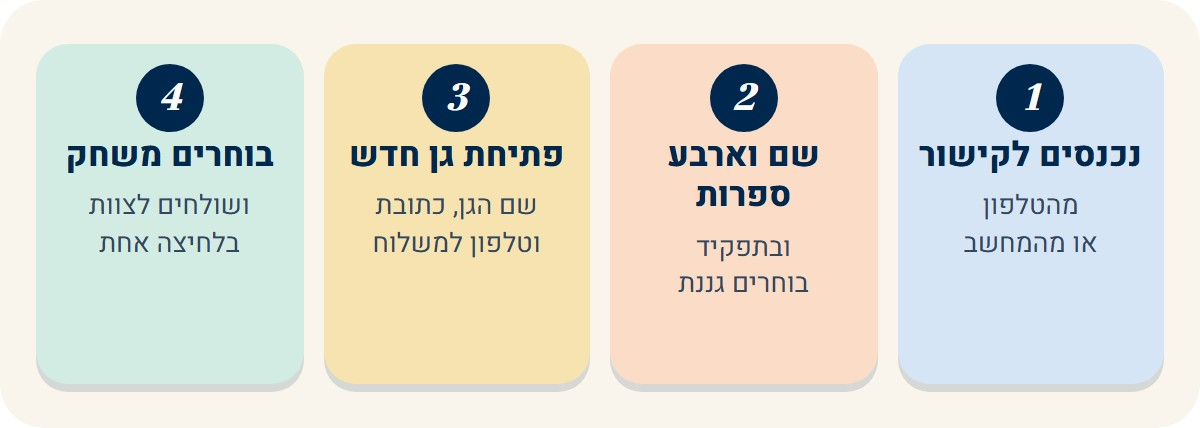
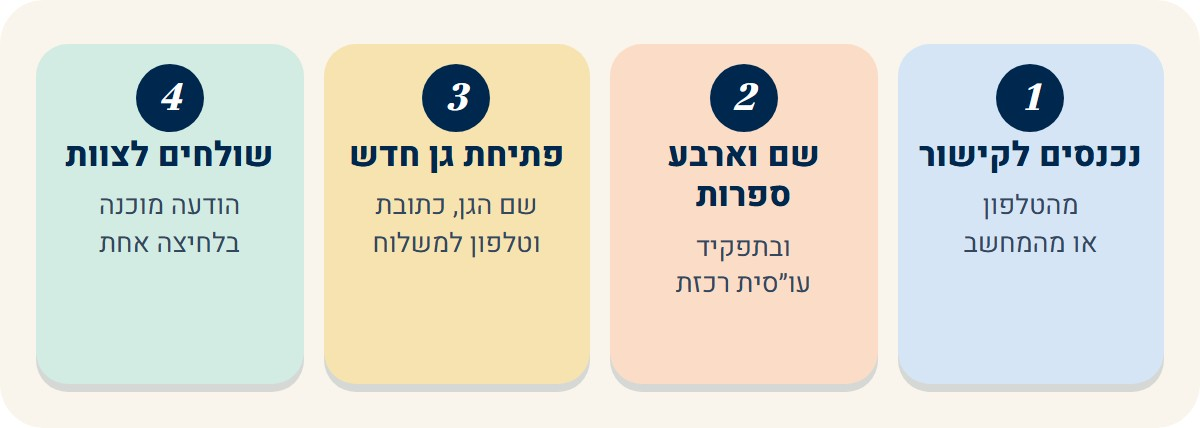
תמונות המייל: הרכזות פותחות את הגנים, המדריכות עוזרות לבחור

Changed region(s): [[0.0308, 0.3341, 0.2467, 0.3949], [0.0617, 0.4556, 0.2158, 0.5164], [0.555, 0.6379, 0.6783, 0.6986]]

diff --git a/email/body_all.html b/email/body_all.html
@@ -2,21 +2,21 @@
 <table dir="rtl" cellpadding="0" cellspacing="0" border="0" width="600" style="width:600px;max-width:100%;border-collapse:separate;margin:0 auto">
 <tbody>
 <tr><td style="text-align:center;padding:0 0 16px 0"><a href="https://miriam-tzohar.github.io/chanukiya/"><img src="https://miriam-tzohar.github.io/chanukiya/email/hero_s.gif" width="600" height="300" alt="החנוכייה של הגן, כל אחת מכן בוחרת משחק חדש לגן עד 70 ש״ח" style="display:inline-block;border:0;max-width:100%;height:auto"></a></td></tr>
-<tr><td style="font-family:Arial,sans-serif;background-color:#F9F5EC;border-radius:16px;padding:20px 30px;text-align:right;font-size:15px;line-height:1.75;color:#22313F">שלום לכולן,<br><br>השנה בחנוכה אנחנו רוצות להגיד לכן תודה,<br>בדרך שתישאר בגן הרבה אחרי החג.<br><br>כל אחת מכן, גננות, סייעות, מטפלות ומדריכות,<br>בוחרת משחק אחד חדש לגן שלה, עד 70 ש״ח.<br>צהר הלב מזמינה, וכל משחק נשלח ישירות לגן, לכתובת שהגננת כותבת.<br><br>במייל הזה כל ההוראות, צעד אחר צעד.<br><b style="color:#00274D">קודם הגננות פותחות את הגן, ואחר כך כל הצוות בוחר.</b></td></tr>
-<tr><td style="text-align:center;padding:22px 0 4px 0"><img src="https://miriam-tzohar.github.io/chanukiya/email/p_sun2.gif" width="340" height="134" alt="השמש של הגן, לגננות, פותחות ראשונות" style="display:inline-block;border:0;max-width:100%;height:auto"></td></tr>
-<tr><td style="text-align:center;padding:16px 0 0 0"><a href="https://miriam-tzohar.github.io/chanukiya/"><img src="https://miriam-tzohar.github.io/chanukiya/email/steps_g.jpg" width="600" height="214" alt="נכנסים לקישור, כותבים שם וארבע ספרות ותפקיד גננת, פותחים גן חדש עם כתובת, בוחרים משחק ושולחים לצוות" style="display:inline-block;border:0;max-width:100%;height:auto"></a></td></tr>
-<tr><td style="font-family:Arial,sans-serif;background-color:#F9F5EC;border-radius:16px;padding:20px 30px;text-align:right;font-size:15px;line-height:1.75;color:#22313F"><b style="color:#00274D">גננות, ככה פותחים את הגן</b><br>1. נכנסים לקישור <a href="https://miriam-tzohar.github.io/chanukiya/" style="color:#205998;font-weight:bold">miriam-tzohar.github.io/chanukiya</a><br>2. כותבים שם פרטי, שם משפחה וארבע הספרות האחרונות של תעודת הזהות.<br>3. בתפקיד בוחרים גננת, ואז בוחרים את העיר.<br>4. בשורה "הגן שלך" בוחרים "פתיחת גן חדש (אני הגננת)".<br>5. ממלאים את שם הגן, הכתובת המדויקת למשלוח, טלפון לתיאום,<br>וכמה אנשי צוות יש בגן, כולל המדריכה.<br>6. לוחצים "פתיחת הגן ובחירת משחק", ובוחרים את המשחק שלך.<br>7. בסוף מופיעה הודעה מוכנה לצוות, ושולחים אותה בוואטסאפ או במייל בלחיצה.<br>8. שומרים את קישור הניהול שמופיע בסוף. הוא רק שלך.<br>בו רואים מי כבר בחרה, אפשר לבחור בשם עובדת בלי אינטרנט, ובסוף סוגרים את הסל.<br><br><b style="color:#BE4E08">חשוב לפתוח את הגן כבר היום, כדי שהצוות יוכל לבחור.</b><br>המשחקים יגיעו לכתובת שתכתבי, אז כדאי לכתוב אותה מדויק.</td></tr>
+<tr><td style="font-family:Arial,sans-serif;background-color:#F9F5EC;border-radius:16px;padding:20px 30px;text-align:right;font-size:15px;line-height:1.75;color:#22313F">שלום לכולן,<br><br>השנה בחנוכה אנחנו רוצות להגיד לכן תודה,<br>בדרך שתישאר בגן הרבה אחרי החג.<br><br>כל אחת מכן, גננות, סייעות, מטפלות ועו״סיות,<br>בוחרת משחק אחד חדש לגן שלה, עד 70 ש״ח.<br>המדריכות לא בוחרות משחק בעצמן. הן עוזרות למודרכות שלהן לבחור.<br>צהר הלב מזמינה, וכל משחק נשלח ישירות לגן, לכתובת שהרכזת כותבת.<br><br>במייל הזה כל ההוראות, צעד אחר צעד.<br><b style="color:#00274D">קודם העו״סיות רכזות הגנים פותחות את הגנים, ואחר כך כל הצוות בוחר.</b></td></tr>
+<tr><td style="text-align:center;padding:22px 0 4px 0"><img src="https://miriam-tzohar.github.io/chanukiya/email/p_sun2.gif" width="340" height="134" alt="השמש של הגן, הרכזות פותחות ראשונות" style="display:inline-block;border:0;max-width:100%;height:auto"></td></tr>
+<tr><td style="text-align:center;padding:16px 0 0 0"><a href="https://miriam-tzohar.github.io/chanukiya/"><img src="https://miriam-tzohar.github.io/chanukiya/email/steps_g.jpg" width="600" height="214" alt="נכנסים לקישור, כותבים שם וארבע ספרות ותפקיד עו״סית רכזת, פותחים גן חדש עם כתובת, ושולחים לצוות הודעה מוכנה" style="display:inline-block;border:0;max-width:100%;height:auto"></a></td></tr>
+<tr><td style="font-family:Arial,sans-serif;background-color:#F9F5EC;border-radius:16px;padding:20px 30px;text-align:right;font-size:15px;line-height:1.75;color:#22313F"><b style="color:#00274D">עו״סיות רכזות הגנים, ככה פותחים את הגן</b><br>1. נכנסים לקישור <a href="https://miriam-tzohar.github.io/chanukiya/" style="color:#205998;font-weight:bold">miriam-tzohar.github.io/chanukiya</a><br>2. כותבים שם פרטי, שם משפחה וארבע הספרות האחרונות של תעודת הזהות.<br>3. בתפקיד בוחרים "עו״סית רכזת", ואז בוחרים את העיר.<br>4. בשורה "הגן שלך" בוחרים "פתיחת גן חדש (אני הרכזת)".<br>5. ממלאים את שם הגן, הכתובת המדויקת למשלוח, טלפון לתיאום,<br>וכמה יבחרו משחק לגן (הגננת, הסייעות והמטפלות, בלי המדריכה).<br>6. לוחצים "פתיחת הגן". מופיעה הודעה מוכנה לצוות של הגן, ושולחים אותה בוואטסאפ או במייל בלחיצה.<br>7. שומרים את קישור הניהול. הוא רק שלך.<br>בו רואים מי כבר בחרה, אפשר לבחור בשם עובדת בלי אינטרנט, ובסוף סוגרים את הסל.<br>8. רכזת של כמה גנים? לוחצים "פתיחת גן נוסף" ופותחים כל גן בנפרד.<br>9. גם את בוחרת משחק? לוחצים "לבחירת המשחק שלי לגן הזה".<br><br><b style="color:#BE4E08">חשוב לפתוח את הגנים כבר היום, כדי שהצוות יוכל לבחור.</b><br>המשחקים יגיעו לכתובת שתכתבי, אז כדאי לכתוב אותה מדויק.</td></tr>
 <tr><td style="text-align:center;padding:22px 0 4px 0"><img src="https://miriam-tzohar.github.io/chanukiya/email/p_team.gif" width="340" height="134" alt="לכל הצוות, ככה בוחרות משחק" style="display:inline-block;border:0;max-width:100%;height:auto"></td></tr>
 <tr><td style="text-align:center;padding:16px 0 0 0"><a href="https://miriam-tzohar.github.io/chanukiya/"><img src="https://miriam-tzohar.github.io/chanukiya/email/steps_s.jpg" width="600" height="214" alt="נכנסים לקישור, כותבים שם וארבע ספרות, בוחרים את העיר והגן, ובוחרים משחק" style="display:inline-block;border:0;max-width:100%;height:auto"></a></td></tr>
-<tr><td style="font-family:Arial,sans-serif;background-color:#F9F5EC;border-radius:16px;padding:20px 30px;text-align:right;font-size:15px;line-height:1.75;color:#22313F"><b style="color:#00274D">כל הצוות, ככה בוחרים משחק</b><br>1. נכנסים לאותו קישור <a href="https://miriam-tzohar.github.io/chanukiya/" style="color:#205998;font-weight:bold">miriam-tzohar.github.io/chanukiya</a><br>2. כותבים שם פרטי, שם משפחה וארבע הספרות האחרונות של תעודת הזהות, ובוחרים תפקיד.<br>3. בוחרים עיר, ואת הגן שלך מתוך הרשימה.<br>4. לוחצים "לקטלוג המשחקים". אפשר לסנן לפי תחום, או לחפש לפי שם או מספר.<br>5. לוחצים "זה המשחק שלי" ומאשרים, ונדלק נר בחנוכייה של הגן.<br>6. אפשר לשתף תמונה לסטטוס, או לשלוח לצוות בוואטסאפ.<br><br>הגן שלך לא ברשימה? כנראה שהגננת עוד לא פתחה אותו.<br>נסי שוב מאוחר יותר, או הזכירי לה.</td></tr>
+<tr><td style="font-family:Arial,sans-serif;background-color:#F9F5EC;border-radius:16px;padding:20px 30px;text-align:right;font-size:15px;line-height:1.75;color:#22313F"><b style="color:#00274D">כל הצוות, ככה בוחרים משחק</b><br>1. נכנסים לאותו קישור <a href="https://miriam-tzohar.github.io/chanukiya/" style="color:#205998;font-weight:bold">miriam-tzohar.github.io/chanukiya</a><br>2. כותבים שם פרטי, שם משפחה וארבע הספרות האחרונות של תעודת הזהות, ובוחרים תפקיד.<br>3. בוחרים עיר, ואת הגן שלך מתוך הרשימה.<br>4. לוחצים "לקטלוג המשחקים". אפשר לסנן לפי תחום, או לחפש לפי שם או מספר.<br>5. לוחצים "זה המשחק שלי" ומאשרים, ונדלק נר בחנוכייה של הגן.<br>6. אפשר לשתף תמונה לסטטוס, או לשלוח לצוות בוואטסאפ.<br><br>הגן שלך לא ברשימה? כנראה שהעו״סית רכזת הגן עוד לא פתחה אותו.<br>נסי שוב מאוחר יותר, או הזכירי לה.</td></tr>
 <tr><td style="text-align:center;padding:16px 0 0 0"><img src="https://miriam-tzohar.github.io/chanukiya/email/stats.jpg" width="600" height="132" alt="153 משחקים לבחירה, עד 70 ש״ח לכל אחת, 6 ערים בדרום, הבחירה נסגרת ב22.11" style="display:inline-block;border:0;max-width:100%;height:auto"></td></tr>
 <tr><td style="text-align:center;padding:22px 0 4px 0"><img src="https://miriam-tzohar.github.io/chanukiya/email/p_cat.gif" width="340" height="134" alt="מן הקטלוג, 153 משחקים לגיל הגן" style="display:inline-block;border:0;max-width:100%;height:auto"></td></tr>
 <tr><td style="text-align:center;padding:16px 0 0 0"><a href="https://miriam-tzohar.github.io/chanukiya/"><img src="https://miriam-tzohar.github.io/chanukiya/email/games.jpg" width="600" height="262" alt="ארבעה משחקים לדוגמה מהקטלוג" style="display:inline-block;border:0;max-width:100%;height:auto"></a></td></tr>
 <tr><td style="font-family:Arial,sans-serif;background-color:#F9F5EC;border-radius:16px;padding:20px 30px;text-align:right;font-size:15px;line-height:1.75;color:#22313F">קלינאית תקשורת תמצא משחקי שפה,<br>מרפאה בעיסוק משחקי מוטוריקה וחושים,<br>והסייעות משחקי חברה ותורות.<br>יש גם פאזלים, משחקי חשיבה ומשחקים לחגים.</td></tr>
 <tr><td style="text-align:center;padding:22px 0 4px 0"><img src="https://miriam-tzohar.github.io/chanukiya/email/p_off.gif" width="340" height="134" alt="בלי אינטרנט, גם כך אפשר לבחור" style="display:inline-block;border:0;max-width:100%;height:auto"></td></tr>
-<tr><td style="font-family:Arial,sans-serif;background-color:#E6F3EE;border-radius:16px;padding:20px 30px;text-align:right;font-size:15px;line-height:1.85;color:#22313F">אין לך אינטרנט, או שהקישור לא נפתח אצלך?<br>מצורף למייל קטלוג להדפסה, ולכל משחק יש בו מספר.<br>בוחרים מספר ומוסרים אותו לגננת, יחד עם השם וארבע הספרות.<br>הגננת נכנסת לקישור הניהול שלה, לוחצת "בחירה בשם עובדת",<br>וכותבת את מספר המשחק בחיפוש.<br><a href="https://miriam-tzohar.github.io/chanukiya/catalog.pdf" style="color:#205998;font-weight:bold">לקטלוג להדפסה</a></td></tr>
+<tr><td style="font-family:Arial,sans-serif;background-color:#E6F3EE;border-radius:16px;padding:20px 30px;text-align:right;font-size:15px;line-height:1.85;color:#22313F">אין לך אינטרנט, או שהקישור לא נפתח אצלך?<br>מצורף למייל קטלוג להדפסה, ולכל משחק יש בו מספר.<br>בוחרים מספר ומוסרים אותו לרכזת הגן, יחד עם השם וארבע הספרות.<br>הרכזת נכנסת לקישור הניהול שלה, לוחצת "בחירה בשם עובדת",<br>וכותבת את מספר המשחק בחיפוש.<br><a href="https://miriam-tzohar.github.io/chanukiya/catalog.pdf" style="color:#205998;font-weight:bold">לקטלוג להדפסה</a></td></tr>
 <tr><td style="text-align:center;padding:22px 0 4px 0"><img src="https://miriam-tzohar.github.io/chanukiya/email/p_faq.gif" width="340" height="134" alt="שאלות ותשובות, כל מה שחשוב לדעת" style="display:inline-block;border:0;max-width:100%;height:auto"></td></tr>
-<tr><td style="font-family:Arial,sans-serif;background-color:#F9F5EC;border-radius:16px;padding:20px 30px;text-align:right;font-size:15px;line-height:1.75;color:#22313F"><b style="color:#00274D">מדריכה שמדריכה בכמה גנים?</b><br>בוחרת אחד מהגנים, והמשחק מגיע לגן הזה.<br><br><b style="color:#00274D">אפשר להחליף משחק?</b><br>כן, עד שהגננת סוגרת את הסל.<br><br><b style="color:#00274D">המשחק שרציתי נעול?</b><br>מישהי מהגן כבר בחרה אותו, כדי שלא יהיו כפולים. בוחרים משחק אחר.<br><br><b style="color:#00274D">למה ארבע ספרות?</b><br>רק כדי שכל אחת תבחר פעם אחת. לא מבקשים את המספר המלא.<br><br><b style="color:#00274D">מתי המשחקים מגיעים?</b><br>מרים מזמינה אחרי שהבחירה נסגרת, וכל משחק נשלח ישירות לגן לפני חנוכה.<br>על כל קופסה תהיה מדבקה עם השם של מי שבחרה אותה.</td></tr>
+<tr><td style="font-family:Arial,sans-serif;background-color:#F9F5EC;border-radius:16px;padding:20px 30px;text-align:right;font-size:15px;line-height:1.75;color:#22313F"><b style="color:#00274D">מדריכה, מה התפקיד שלך?</b><br>המדריכות לא בוחרות משחק בעצמן.<br>שבי עם המודרכות שלך מול הקטלוג, המליצי על משחק שמתאים לילדים,<br>וכל אחת בוחרת בעצמה.<br><br><b style="color:#00274D">עו״סית שמרכזת כמה גנים?</b><br>פותחת את כל הגנים שלה, ובוחרת משחק אחד לאחד מהם.<br><br><b style="color:#00274D">אפשר להחליף משחק?</b><br>כן, עד שהרכזת סוגרת את הסל.<br><br><b style="color:#00274D">המשחק שרציתי נעול?</b><br>מישהי מהגן כבר בחרה אותו, כדי שלא יהיו כפולים. בוחרים משחק אחר.<br><br><b style="color:#00274D">למה ארבע ספרות?</b><br>רק כדי שכל אחת תבחר פעם אחת. לא מבקשים את המספר המלא.<br><br><b style="color:#00274D">מתי המשחקים מגיעים?</b><br>מרים מזמינה אחרי שהבחירה נסגרת, וכל משחק נשלח ישירות לגן לפני חנוכה.<br>על כל קופסה תהיה מדבקה עם השם של מי שבחרה אותה.</td></tr>
 <tr><td style="text-align:center;padding:22px 0 4px 0"><img src="https://miriam-tzohar.github.io/chanukiya/email/p_note.gif" width="340" height="134" alt="מילה אישית ממרים" style="display:inline-block;border:0;max-width:100%;height:auto"></td></tr>
 <tr><td style="font-family:Arial,sans-serif;background-color:#EEF4FA;border:2px solid #DCE8F5;border-radius:18px;padding:22px 30px;text-align:center;font-size:15.5px;line-height:1.85;color:#00274D">אני רואה כל יום כמה אתן נותנות לילדים שלנו.<br>המשחק הזה הוא תודה קטנה,<br>שתישאר בגן ותשמח את הילדים גם אחרי החג.<br>אז תבחרו משהו שאתן אוהבות,<br>ותדליקו איתנו את החנוכייה של הגן.<br><span style="color:#BE4E08;font-weight:bold">מרים</span></td></tr>
 <tr><td style="font-family:Arial,sans-serif;padding:22px 10px 0 10px;text-align:center;font-size:16px;line-height:1.75;color:#00274D">הבחירה פתוחה עד יום ראשון, 22.11</td></tr>

diff --git a/email/body_rakazot.html b/email/body_rakazot.html
@@ -1,0 +1,25 @@
+<div dir="rtl" style="direction:rtl;text-align:right">
+<table dir="rtl" cellpadding="0" cellspacing="0" border="0" width="600" style="width:600px;max-width:100%;border-collapse:separate;margin:0 auto">
+<tbody>
+<tr><td style="text-align:center;padding:0 0 16px 0"><a href="https://miriam-tzohar.github.io/chanukiya/"><img src="https://miriam-tzohar.github.io/chanukiya/email/hero_g.gif" width="600" height="300" alt="את השמש של הגן, את פותחת את הגן וכל הצוות בוחר משחק חדש" style="display:inline-block;border:0;max-width:100%;height:auto"></a></td></tr>
+<tr><td style="font-family:Arial,sans-serif;background-color:#F9F5EC;border-radius:16px;padding:20px 30px;text-align:right;font-size:15px;line-height:1.75;color:#22313F">עו״סית יקרה,<br><br>השנה בחנוכה צהר הלב מזמינה לכל אשת צוות בגנים שלך משחק חדש לגן, עד 70 ש״ח.<br>לגננת, לסייעות ולמטפלות. המדריכות לא בוחרות, הן עוזרות לצוות לבחור.<br>כל אחת בוחרת משחק בעצמה מתוך קטלוג של 153 משחקים,<br>ומרים מזמינה ושולחת הכול לגן לפני חנוכה.</td></tr>
+<tr><td style="text-align:center;padding:22px 0 4px 0"><img src="https://miriam-tzohar.github.io/chanukiya/email/p_sun.gif" width="340" height="134" alt="השמש של הגן, את פותחת ראשונה" style="display:inline-block;border:0;max-width:100%;height:auto"></td></tr>
+<tr><td style="font-family:Arial,sans-serif;background-color:#F9F5EC;border-radius:16px;padding:20px 30px;text-align:right;font-size:15px;line-height:1.75;color:#22313F">את רכזת הגן, ולכן את השמש של החנוכייה.<br>את פותחת את הגן ראשונה,<br>ואז כל אשת צוות שבוחרת משחק מדליקה נר בחנוכייה של הגן.<br>רכזת של כמה גנים? פותחים כל גן בנפרד, זה לוקח דקה לכל גן.</td></tr>
+<tr><td style="text-align:center;padding:16px 0 0 0"><a href="https://miriam-tzohar.github.io/chanukiya/"><img src="https://miriam-tzohar.github.io/chanukiya/email/steps_g.jpg" width="600" height="214" alt="נכנסים לקישור, כותבים שם וארבע ספרות ותפקיד עו״סית רכזת, פותחים גן חדש עם כתובת, ושולחים לצוות הודעה מוכנה" style="display:inline-block;border:0;max-width:100%;height:auto"></a></td></tr>
+<tr><td style="font-family:Arial,sans-serif;background-color:#F9F5EC;border-radius:16px;padding:20px 30px;text-align:right;font-size:15px;line-height:1.75;color:#22313F">אחרי הפתיחה מופיעה לך הודעה מוכנה לצוות של הגן,<br>עם כפתור וואטסאפ וכפתור מייל.<br><br>יש לך גם קישור ניהול לכל גן, והוא רק שלך.<br>בו רואים מי כבר בחרה ומה,<br>אפשר לבחור בשם עובדת בלי סמארטפון,<br>ובסוף סוגרים את הסל.<br><br>גם את יכולה לבחור משחק אחד, לאחד הגנים שלך.</td></tr>
+<tr><td style="text-align:center;padding:16px 0 0 0"><img src="https://miriam-tzohar.github.io/chanukiya/email/stats.jpg" width="600" height="132" alt="153 משחקים לבחירה, עד 70 ש״ח לכל אחת, 6 ערים בדרום, הבחירה נסגרת ב22.11" style="display:inline-block;border:0;max-width:100%;height:auto"></td></tr>
+<tr><td style="text-align:center;padding:22px 0 4px 0"><img src="https://miriam-tzohar.github.io/chanukiya/email/p_cat.gif" width="340" height="134" alt="מן הקטלוג, 153 משחקים לגיל הגן" style="display:inline-block;border:0;max-width:100%;height:auto"></td></tr>
+<tr><td style="text-align:center;padding:16px 0 0 0"><a href="https://miriam-tzohar.github.io/chanukiya/"><img src="https://miriam-tzohar.github.io/chanukiya/email/games.jpg" width="600" height="262" alt="ארבעה משחקים לדוגמה מהקטלוג" style="display:inline-block;border:0;max-width:100%;height:auto"></a></td></tr>
+<tr><td style="font-family:Arial,sans-serif;background-color:#F9F5EC;border-radius:16px;padding:20px 30px;text-align:right;font-size:15px;line-height:1.75;color:#22313F">בקטלוג יש משחקי שפה, מוטוריקה, חשיבה, משחקי חברה, פאזלים ומשחקים לחגים.<br>משחק שכבר נבחר בגן נעול, כדי שלא יהיו כפולים.</td></tr>
+<tr><td style="text-align:center;padding:22px 0 4px 0"><img src="https://miriam-tzohar.github.io/chanukiya/email/p_off.gif" width="340" height="134" alt="בלי אינטרנט, גם כך אפשר לבחור" style="display:inline-block;border:0;max-width:100%;height:auto"></td></tr>
+<tr><td style="font-family:Arial,sans-serif;background-color:#E6F3EE;border-radius:16px;padding:20px 30px;text-align:right;font-size:15px;line-height:1.85;color:#22313F">עובדת בלי אינטרנט, או שהקישור חסום אצלה?<br>מצורף למייל קטלוג להדפסה, ולכל משחק יש בו מספר.<br>היא אומרת לך את המספר, את השם ואת ארבע הספרות,<br>ואת בוחרת בשמה בקישור הניהול.<br>בחיפוש בקטלוג אפשר פשוט לכתוב את מספר המשחק.<br><a href="https://miriam-tzohar.github.io/chanukiya/catalog.pdf" style="color:#205998;font-weight:bold">לקטלוג להדפסה</a></td></tr>
+<tr><td style="text-align:center;padding:22px 0 4px 0"><img src="https://miriam-tzohar.github.io/chanukiya/email/p_note.gif" width="340" height="134" alt="מילה אישית ממרים" style="display:inline-block;border:0;max-width:100%;height:auto"></td></tr>
+<tr><td style="font-family:Arial,sans-serif;background-color:#EEF4FA;border:2px solid #DCE8F5;border-radius:18px;padding:22px 30px;text-align:center;font-size:15.5px;line-height:1.85;color:#00274D">אתן מחזיקות את הגן,<br>את הצוות, את הילדים ואת ההורים,<br>כל יום מחדש.<br>אז השנה אתן גם מדליקות את האור הראשון.<br>תודה שאתן איתנו.<br><span style="color:#BE4E08;font-weight:bold">מרים</span></td></tr>
+<tr><td style="font-family:Arial,sans-serif;padding:22px 10px 0 10px;text-align:center;font-size:16px;line-height:1.75;color:#00274D">הבחירה פתוחה עד יום ראשון, 22.11</td></tr>
+<tr><td style="text-align:center;padding:8px 0 0 0"><a href="https://miriam-tzohar.github.io/chanukiya/"><img src="https://miriam-tzohar.github.io/chanukiya/email/cta_g.gif" width="600" height="156" alt="לפתיחת הגנים שלי, לחצי כאן" style="display:inline-block;border:0;max-width:100%;height:auto"></a></td></tr>
+<tr><td style="font-family:Arial,sans-serif;text-align:center;padding:4px 0 0 0;font-size:14px;color:#33475E">הקישור לפתיחת הגנים <a href="https://miriam-tzohar.github.io/chanukiya/" style="color:#205998;font-weight:bold">miriam-tzohar.github.io/chanukiya</a></td></tr>
+<tr><td style="text-align:center;padding:16px 0 0 0"><a href="https://miriam-tzohar.github.io/chanukiya/wall.html"><img src="https://miriam-tzohar.github.io/chanukiya/email/wall.jpg" width="600" height="150" alt="קיר החנוכיות, איזה גן ידליק ראשון את כל החנוכייה" style="display:inline-block;border:0;max-width:100%;height:auto"></a></td></tr>
+<tr><td style="font-family:Arial,sans-serif;padding:24px 6px 0 0;text-align:right;font-size:15px;color:#22313F">חג אורים שמח,</td></tr>
+<tr><td style="font-family:Arial,sans-serif;padding:10px 6px 0 0;text-align:right;font-size:13.5px;line-height:1.65;color:#33475E"><span style="font-size:16px;font-weight:bold;color:#00274D">מרים</span><br><span style="font-weight:bold;color:#BE4E08">רכזת אשכול, צהר הלב מרחב דרום</span><br><a href="mailto:miryamti@tzlev.com" style="color:#205998">miryamti@tzlev.com</a></td></tr>
+</tbody></table>
+</div>
